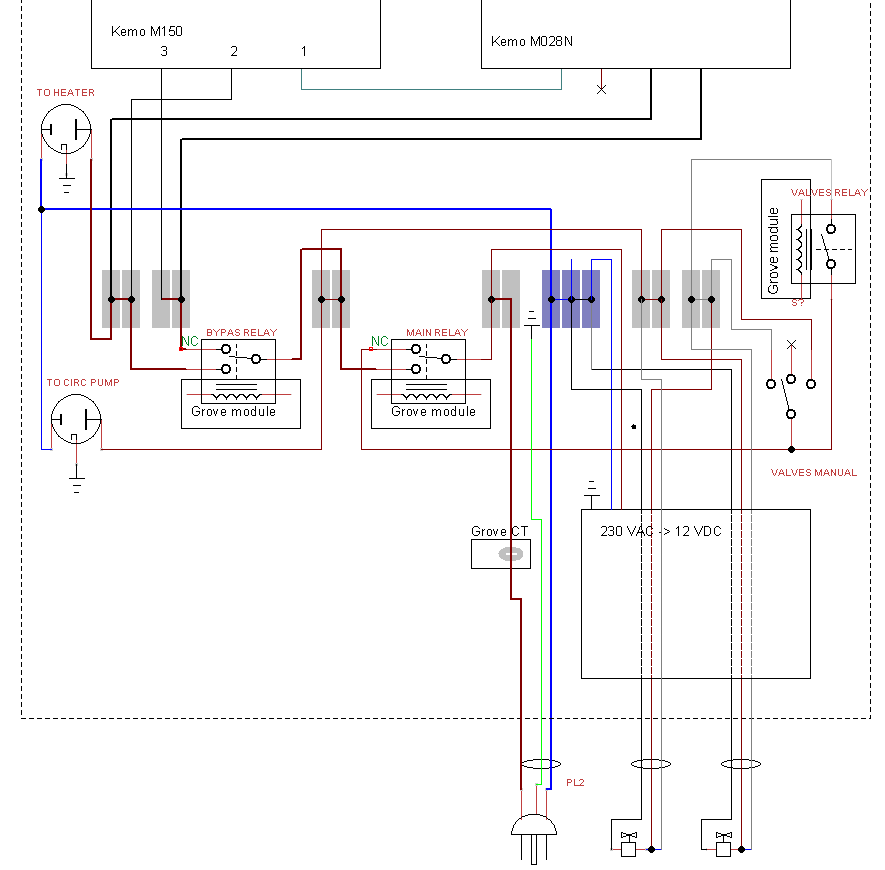
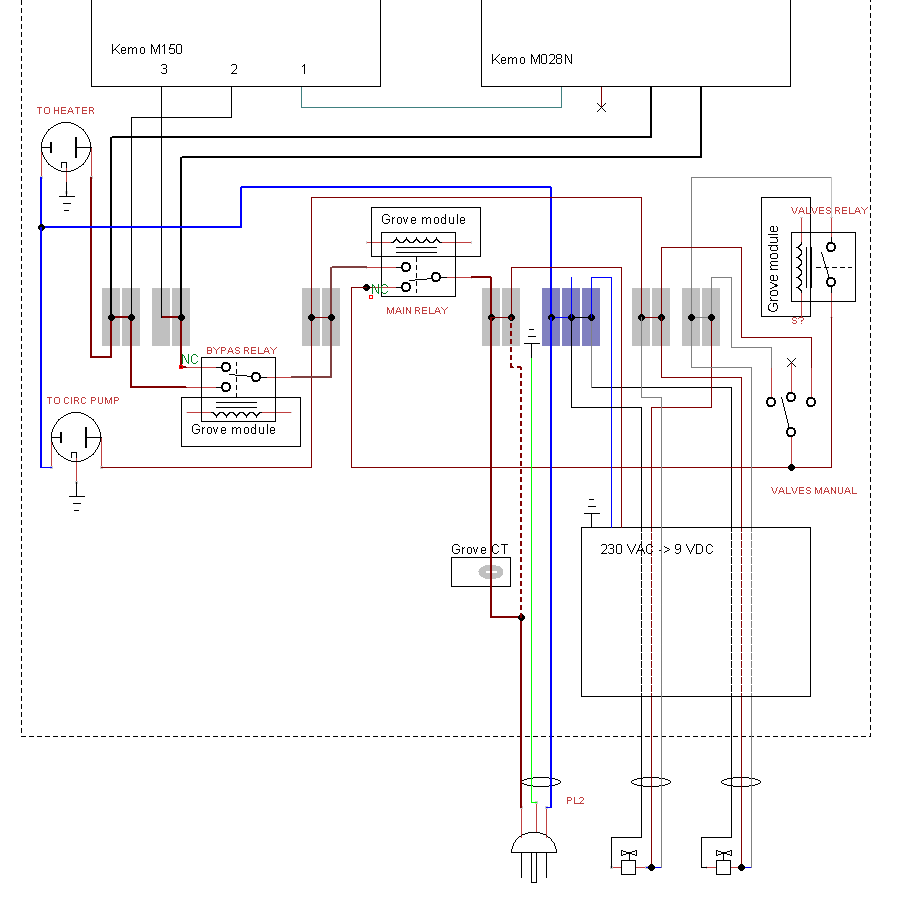
PowerPilot and ElSens with esp8266

Changed region(s): [[0.0305, 0.0, 0.9763, 0.9931], [0.8542, 0.0621, 0.8847, 0.0931]]

diff --git a/Regulator/consts.h b/Regulator/consts.h
@@ -6,20 +6,23 @@
 const char version[] = "build "  __DATE__ " " __TIME__;
 
 #ifdef ESP8266
+#include "gbs-d1r2.h"
 #define FILE_WRITE "a"
 #define FILE_READ "r"
 
-// ELSENS would be connected over I2C ADC. I2C is D1 D2
-const byte LEDBAR_DATA_PIN = D1; // io 5
-const byte LEDBAR_CLOCK_PIN = D2;  // io 4
-const byte BUTTON_PIN = D3; // io 0 pullup
-const byte TONE_PIN = D4; // io 2 pullup
-const byte PWM_PIN = D5; // io 14
-const byte MAIN_RELAY_PIN = D6; // io 12
-const byte BYPASS_RELAY_PIN = D7;  // io 13
-const byte VALVES_RELAY_PIN = D8; // io 15 pulldown
-const byte BALBOA_RELAY_PIN = D0; // io 16
-const byte TEMPSENS_PIN = A0;
+const byte BUTTON_PIN = GBS_RX_io1_RX0;
+const byte MAIN_RELAY_PIN = GBS_D2_io16;
+// D3
+// D4
+const byte BYPASS_RELAY_PIN = GBS_D5_io0_PULLUP;
+const byte TONE_PIN = GBS_D6_io2_PULLUP;
+const byte PWM_PIN = GBS_D7_io14;
+const byte LEDBAR_DATA_PIN = GBS_D8_io12;
+const byte LEDBAR_CLOCK_PIN = GBS_D9_io13;
+//const byte TEMPSENS_PIN = A0;
+const byte ELSENS_PIN = A0;
+const byte BALBOA_RELAY_PIN = GBS_A2_io15_PULLDOWN; // jumper wire from pin 10 to unused A2
+//const byte VALVES_RELAY_PIN = GBS_A3_io3_TX0; // with jumper wire on GBS headers TX->A3
 #else
 const byte MAIN_RELAY_PIN = 2;
 const byte TONE_PIN = 3;
@@ -68,7 +71,7 @@ enum {
   WIFI_EVENT,
   PUMP_EVENT,
   MODBUS_EVENT,
-  OVERHEAT_EVENT,
+  OVERHEATED_EVENT,
   BALBOA_PAUSE_EVENT,
   MANUAL_RUN_EVENT,
   VALVES_BACK_EVENT,

diff --git a/Regulator/gbs-d1r2.h b/Regulator/gbs-d1r2.h
@@ -1,0 +1,15 @@
+
+// Grove Base Shield labels mapping for Wemos D1 R2
+#define GBS_RX_io1_RX0 RX
+#define GBS_D2_io16 D0
+#define GBS_D3_io5_I2C_SCA D1
+#define GBS_D4_io4_I2C_SCL D2
+#define GBS_D5_io0_PULLUP D3
+#define GBS_D6_io2_PULLUP D4
+#define GBS_D7_io14 D5
+#define GBS_D8_io12 D6
+#define GBS_D9_io13 D7
+#define GBS_A0_A0_3V3 A0
+#define GBS_A2_io15_PULLDOWN D8 // with jumper wire on GBS headers 10->A2
+#define GBS_A3_io3_TX0 TX // with jumper wire on GBS headers TX->A3
+

diff --git a/README.md b/README.md
@@ -33,17 +33,19 @@ I decided to go the multiple ino code separation way with almost no encapsulatio
 ### Electronics
 * [Arduino Uno WiFi](https://github.com/jandrassy/UnoWiFiDevEdSerial1/wiki) - can be replaced by any AVR 5V Arduino with some shield or module for networking
 * optional SD card reader for static web files (only with Mega)
+* alternative to Arduino card is esp8266 board in Uno format like the Wemos D1 R2, which can be used with Grove Base Shield. The shield supplies 5 V VCC for the Grove modules.
 * [Seeed Grove Base Shield](https://www.seeedstudio.com/Base-Shield-V2-p-1378.html) - the Grove connectors ensure firm connection of wires with simple assemble and disassemble
 * [Grove 30 A Relay module](https://www.seeedstudio.com/Grove-SPDT-Relay%2830A%29-p-1473.html) 2pcs - the AC current in the system is less then 10 A but it can run hours at 9+ A 
 * [Grove Electricity Sensor module](https://www.seeedstudio.com/Grove-Electricity-Sensor-p-777.html) - a module with current transformer to measure the AC current up to 10 A
 * [Grove Relay](https://www.seeedstudio.com/Grove-Relay-p-769.html) - for 'valves back' circuit
 * [Grove Temperature Sensor](https://www.seeedstudio.com/Grove-Temperature-Sensor-p-774.html) - to check the next heating distributor if the main heating is running
 * [Grove Dry-Reed Relay](https://www.seeedstudio.com/Grove-Dry-Reed-Relay-p-1412.html) is for Balboa hot tub heating suspend activation
-* Beeper - the Speaker module with amplifier you can see on the box photo, was a wrong choice. The amplifier was catching WiFi interference 
+* [Grove Speaker](https://www.seeedstudio.com/Grove-Speaker-p-1445.html) - Speaker module with amplifier for strong beeps
 * [Grove LED Bar](https://www.seeedstudio.com/Grove-LED-Bar-v2.0-p-2474.html) - 10 LEDs with individual dimming needing only any two digital pins 
 * Button - plain momentary push-button to be used with Atmega internal pin pull-up (do not use the Grove button module, it has a pull-down and when you disconnected it, the pin floats)
 * Kemo M028N with [Kemo M150](https://www.kemo-electronic.de/en/Transformer-Dimmer/Converter/M150-DC-pulse-converter.php) - to regulate the heating power with PWM signal. The high VA rating is necessary because the system can run hours on maximum.
 * [Grove Screw Terminal](https://www.seeedstudio.com/Grove-Screw-Terminal-p-996.html) - to connect Grove connector to M150
+* [Grove Mosfet](https://www.seeedstudio.com/Grove-MOSFET-p-1594.html) - instead of Screw Terminal for 5 V PWM with esp8266  
 * [Grove Wrapper](https://www.seeedstudio.com/Grove-Blue-Wrapper-1%2A2%284-PCS-pack%29-p-2583.html) - to fasten the Grove modules to a DIN rail mount (the Grove 30 A relays don't fit into Grove wrappers)
 
 ### Heating system
@@ -59,7 +61,7 @@ Copy the folder `Regulator`from this GitHub repository into your sketch folder o
 * Regulator.ino - core: global variables, setup() and loop() handling network, heating relays, main states
 * Events.ino - data saved to EEPROM for monitoring
 * Modbus.ino - reads the PV SunSpec data and time
-* Watchdog.ino - AVR watchdog
+* Watchdog.ino - watchdog handling
 
 ### Heating
 * PowerPilot.ino - heater regulation with PWM to exactly consume the excess solar electricity calculated from SunSpec data. [more...](https://github.com/jandrassy/Regulator/wiki/PowerPilot)
@@ -74,7 +76,8 @@ Copy the folder `Regulator`from this GitHub repository into your sketch folder o
 
 ### Monitoring
 * Telnet.ino - logging csv lines to telnet client and reading command characters sent from telnet client
-* WebServer.ino - JSON data for the web pages with optional serving of static web page files from SD card 
+* CsvLog.ino - logging heating regulation to csv files on SD card or SPIFFS
+* WebServer.ino - JSON data for the web pages with optional serving of static web page files and csv files from SD card or SPIFFS
 * Blynk.ino - control from everywhere with [Blynk](https://www.blynk.cc/) Android application. [more...](https://github.com/jandrassy/Regulator/wiki/Blynk)
 
 ### Symo Hybrid Battery
@@ -89,17 +92,16 @@ Copy the folder `Regulator`from this GitHub repository into your sketch folder o
 
 The RegulatorPages folder contains static web pages of the regulator. The static web pages use data in json format requested from the WebServer implemented in WebServer.ino.
 
-I have the static pages served by the esp8266 WebServer of WiFi Link firmware in the esp8266 on-board of the Uno WiFi. I added them to the SPIFFS `data` folder of WiFi Link firmware.
+With Uno WiFi I had the static pages served by the esp8266 WebServer of WiFi Link firmware in the esp8266 on-board of the Uno WiFi. I added them to the SPIFFS `data` folder of WiFi Link firmware.
 
-If SD card is connected, the WebServer.ino can serve the pages from SD card.
+WebServer.ino can serve the pages from SD card or SPIFFS.
 
 This static web pages can be started from a folder on a computer to show the data from Regulator. Only set the IP address of Arduino in script.js.
 
 ## Comments
 
-The complete project doesn't fit into the Uno flash memory. To run it, I commented out the Blynk in setup and loop and the builder leaves it out. 
+The complete project doesn't fit into the Uno flash memory. To run it, I comment out the Blynk in setup and loop and the builder leaves it out. 
 
 The build of the Regulator with Ethernet shield SD card to serve web pages needs a Mega.
 
-I plan to create a branch of this project to rewrite it for esp8266 using the pins of connected Uno with Firmata or some simple sketch. 
-
+The D1 R2 esp8266 version is in duty now foe evaluation. It is without ValvesBack.ino because esp8266 has only one analog pin.
